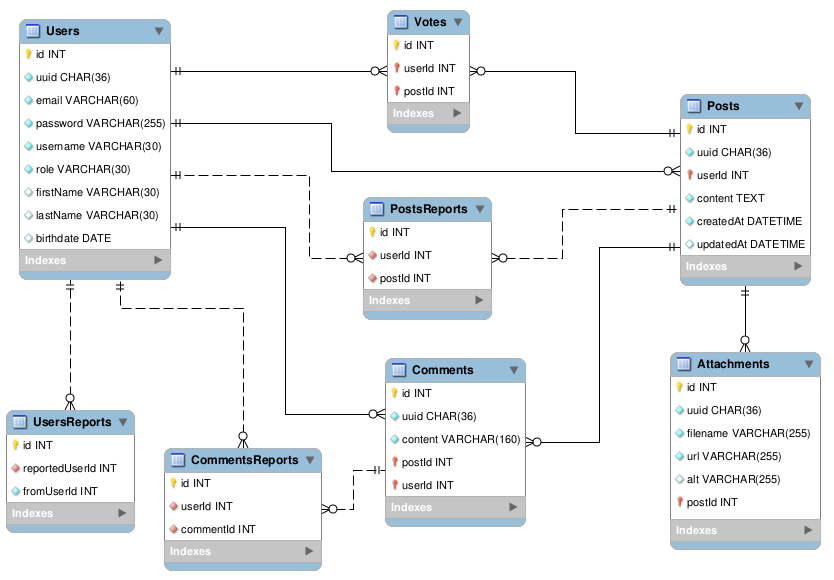
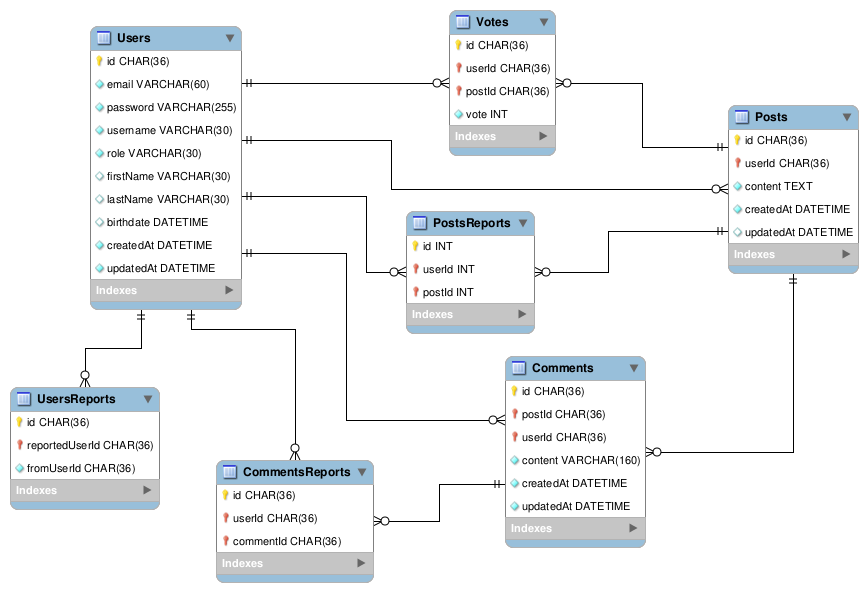
Refactor ERD and models

diff --git a/app/models/postsreports.js b/app/models/postsreports.js
@@ -15,6 +15,7 @@ module.exports = (sequelize, DataTypes) => {
       this.belongsTo(Posts, { foreignKey: 'postId', as: 'post' });
     }
   }
+
   PostsReports.init({
     id: {
       type: DataTypes.UUID,
@@ -34,6 +35,8 @@ module.exports = (sequelize, DataTypes) => {
   }, {
     sequelize,
     modelName: 'PostsReports',
+    timestamps: false,
   });
+
   return PostsReports;
 };

diff --git a/app/migrations/20210904165910-create-posts-reports.js b/app/migrations/20210904165910-create-posts-reports.js
@@ -28,16 +28,6 @@ module.exports = {
           key: 'id',
         },
       },
-
-      createdAt: {
-        allowNull: false,
-        type: Sequelize.DATE,
-      },
-
-      updatedAt: {
-        allowNull: false,
-        type: Sequelize.DATE,
-      },
     });
   },
   down: async (queryInterface, Sequelize) => {

diff --git a/app/migrations/20210904171158-create-votes.js b/app/migrations/20210904171158-create-votes.js
@@ -27,16 +27,6 @@ module.exports = {
           key: 'id',
         },
       },
-
-      createdAt: {
-        allowNull: false,
-        type: Sequelize.DATE,
-      },
-
-      updatedAt: {
-        allowNull: false,
-        type: Sequelize.DATE,
-      },
     });
   },
   down: async (queryInterface, Sequelize) => {

diff --git a/app/migrations/20210904172057-create-users-reports.js b/app/migrations/20210904172057-create-users-reports.js
@@ -27,16 +27,6 @@ module.exports = {
           key: 'id',
         },
       },
-
-      createdAt: {
-        allowNull: false,
-        type: Sequelize.DATE,
-      },
-
-      updatedAt: {
-        allowNull: false,
-        type: Sequelize.DATE,
-      },
     });
   },
   down: async (queryInterface, Sequelize) => {

diff --git a/app/migrations/20210905091551-create-comments-reports.js b/app/migrations/20210905091551-create-comments-reports.js
@@ -27,16 +27,6 @@ module.exports = {
           key: 'id',
         },
       },
-
-      createdAt: {
-        allowNull: false,
-        type: Sequelize.DATE,
-      },
-
-      updatedAt: {
-        allowNull: false,
-        type: Sequelize.DATE,
-      },
     });
   },
   down: async (queryInterface, Sequelize) => {

diff --git a/app/models/commentsreports.js b/app/models/commentsreports.js
@@ -34,6 +34,7 @@ module.exports = (sequelize, DataTypes) => {
   }, {
     sequelize,
     modelName: 'CommentsReports',
+    timestamps: false,
   });
   return CommentsReports;
 };

diff --git a/app/models/usersreports.js b/app/models/usersreports.js
@@ -34,6 +34,7 @@ module.exports = (sequelize, DataTypes) => {
   }, {
     sequelize,
     modelName: 'UsersReports',
+    timestamps: false,
   });
   return UsersReports;
 };

diff --git a/app/models/votes.js b/app/models/votes.js
@@ -34,6 +34,7 @@ module.exports = (sequelize, DataTypes) => {
   }, {
     sequelize,
     modelName: 'Votes',
+    timestamps: false,
   });
   return Votes;
 };
